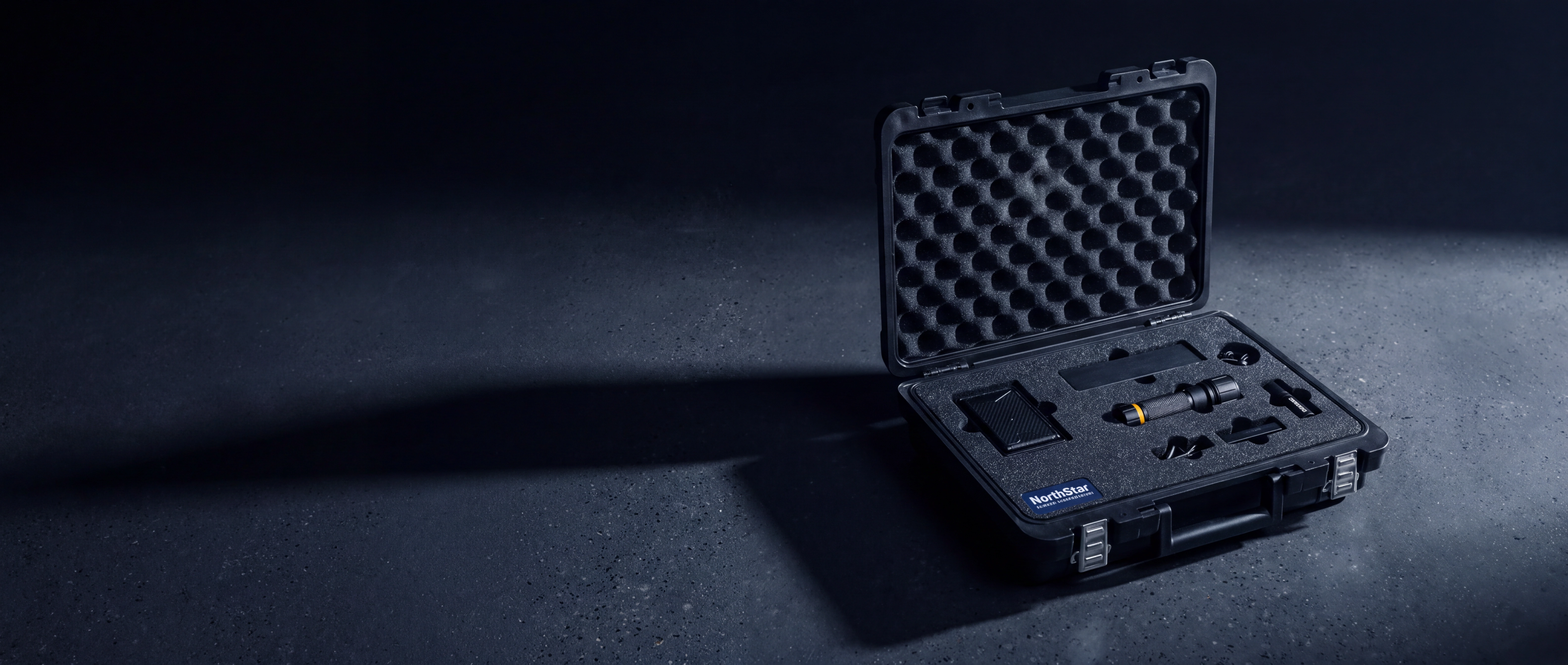
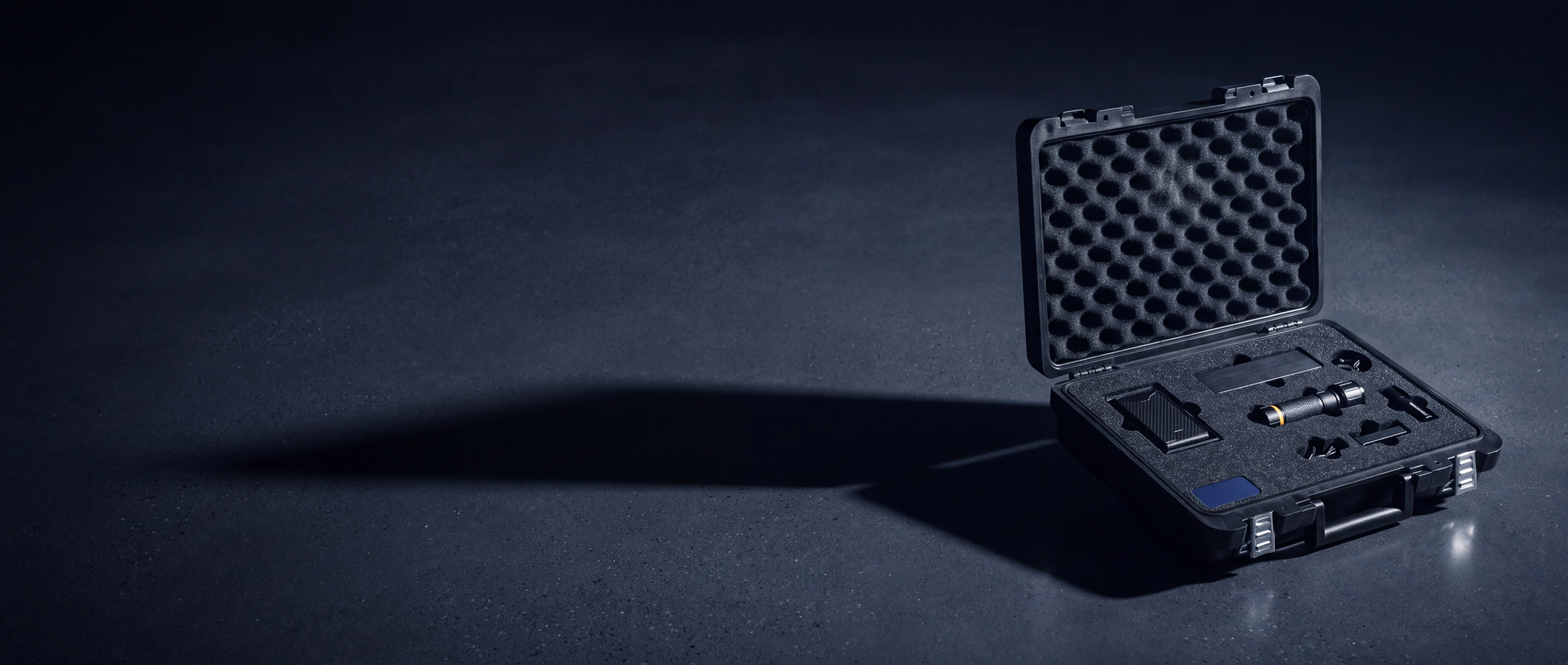
The badge is blank, because asking a model to write text is how you get gibberish
I broke my own rule within the hour of writing it.

The previous commit ruled that a generated frame must never reproduce a
third-party trademark, because the snack brands came back garbled -- KIND as
"AZTA PROTEIIIA", Jack Link's as "JACK LNKS / B..EE STEAK". Then, to fix the
"YOUR LOGO HERE" plate on the same set of banners, I instructed the model to
WRITE "NorthStar / ALBANY TRANSPORTATION" onto it.

It shipped. At full resolution the deployed badge reads "NorthStar" over a line
of gibberish, and the PDP test frame given the same instruction produced
"ALBANY TRANEPORTATION". Same defect, same hour, self-inflicted.

The distinction I had missed: REPRODUCING text is not WRITING text. Text that
exists photographically in the reference is image content, and image2image
carries it faithfully -- every NorthStar on the other five banners is correct
because the model was copying pixels, not spelling a word. Text the prompt asks
for is generated letterforms, and it gets them wrong often enough that it
cannot be trusted at any size.

So: never instruct a generation to add, replace or rewrite text. Where a
surface must not say what the reference says, ask for it BLANK. A smooth
unmarked plate renders reliably because there are no letterforms to get wrong,
and on this product it is also the more truthful image -- an un-customised kit
really does ship with an empty plate, and that plate is where the fleet's logo
goes.
[…]

Changed region(s): [[0.125, 0.0938, 1.0, 1.0], [0.9375, 0.9375, 1.0, 1.0], [0.6875, 0.9375, 0.7188, 1.0]]

diff --git a/PHOTO-ART-DIRECTION.md b/PHOTO-ART-DIRECTION.md
@@ -317,3 +317,71 @@ in this art direction, empty concrete with the product cropped off the edge.
 The caption sits bottom-left over its own gradient. Cut with that gradient
 composited, the bottom-left corner of all eighteen placements measures **mean
 luminance 17–33 and 0.0% of pixels above 200**. White type reads on every one.
+
+
+---
+
+# NEVER ASK THE MODEL TO RENDER TEXT — 2026-09-25
+
+The hardest-won rule in this file, because I broke it myself within an hour of
+writing the reasoning for it.
+
+## What happened
+
+Jayden flagged two things on the banners and asked me to decide them.
+
+**Decision 1, the snack brands.** The milepacks banner reproduced third-party
+packaging. Zoomed to full size the marks were not merely present, they were
+**garbled**: KIND read `AZTA PROTEIIIA`, Jack Link's read `JACK LNKS /
+B..EE STEAK`, Grandma's carried a nonsense subtitle. A recognisable trademark
+rendered *wrong* is worse than showing it correctly and worse than leaving it
+out. Ruled: a generated frame never reproduces a third-party trademark. The
+real packshot on the PDP does that job, and does it accurately. Milepacks was
+reshot as the closed navy box.
+
+**Decision 2, the badge.** The appreciation banner's plate read `YOUR LOGO
+HERE`, which on a campaign frame beside fifty NorthStar-branded products read
+as an unfinished mockup. I replaced it by **instructing the model to write**
+"NorthStar / ALBANY TRANSPORTATION" on the plate.
+
+It came back `NorthStar` over a line of **gibberish**. The PDP test frame,
+given the same instruction, came back `NorthStar / ALBANY TRANEPORTATION`.
+
+Same defect. Same hour. I had just written the rule about garbled marks and
+then hand-fed the model the one input that guarantees them.
+
+## The distinction that matters
+
+**Reproducing text is not the same job as writing text.**
+
+- Text that already exists *photographically in the reference* is image
+  content. image2image carries it faithfully — every `NorthStar` on the other
+  five banners came through correct, because the model was copying pixels, not
+  spelling a word.
+- Text the prompt *asks for* is generated. The model is drawing letterforms it
+  has to infer, and it gets them wrong often enough that any frame containing
+  requested text must be read at full resolution before it ships.
+
+So: **never instruct a generation to add, replace or rewrite any text.** If a
+surface must not say what the reference says, ask for it **blank** — a smooth
+unmarked plate renders reliably, because there are no letterforms to get wrong.
+
+On this product a blank plate is also the more truthful image: an
+un-customised kit really does ship with an empty plate, and that plate is
+exactly where the fleet's logo goes.
+
+## Check it at full resolution, every time
+
+Both failures were invisible at review size. The banner badge is ~40px on a
+1440px screen; the misspelling only appeared at 1200px of crop. A frame that
+contains any lettering at all gets zoomed to 100% before it ships — the
+garbled snack brands were caught that way, and the two that were not caught
+were the two I did not zoom.
+
+## The PDP rule that follows
+
+On a **PDP**, leave the reference's plate exactly as the reference has it, or
+blank. `YOUR LOGO HERE` is not a defect on a product page — it is the product's
+selling point, stated in the one place a buyer is deciding whether their logo
+can go on it. The unfinished-mockup problem only applies to **campaign frames**,
+which are brand-building and must look finished.
